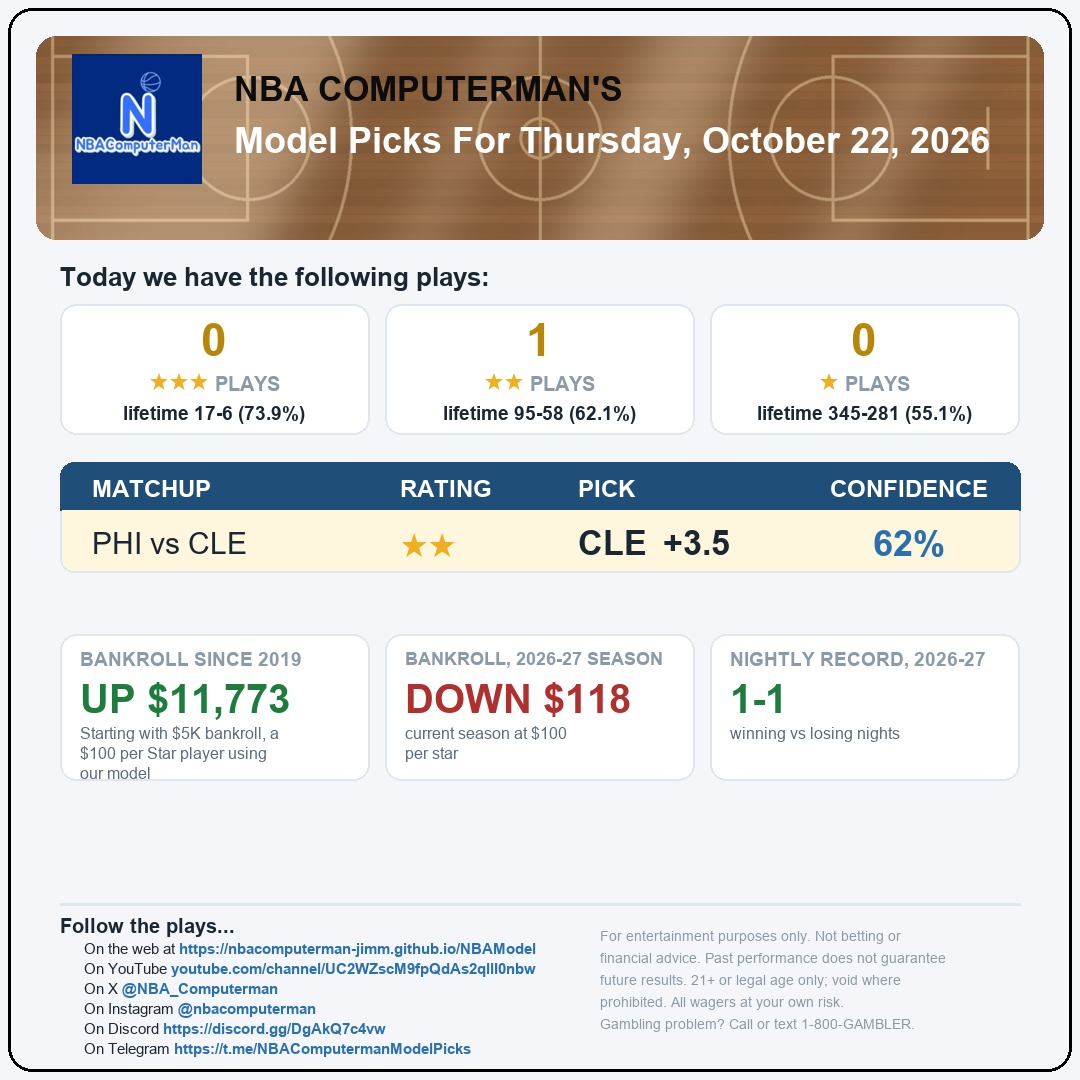
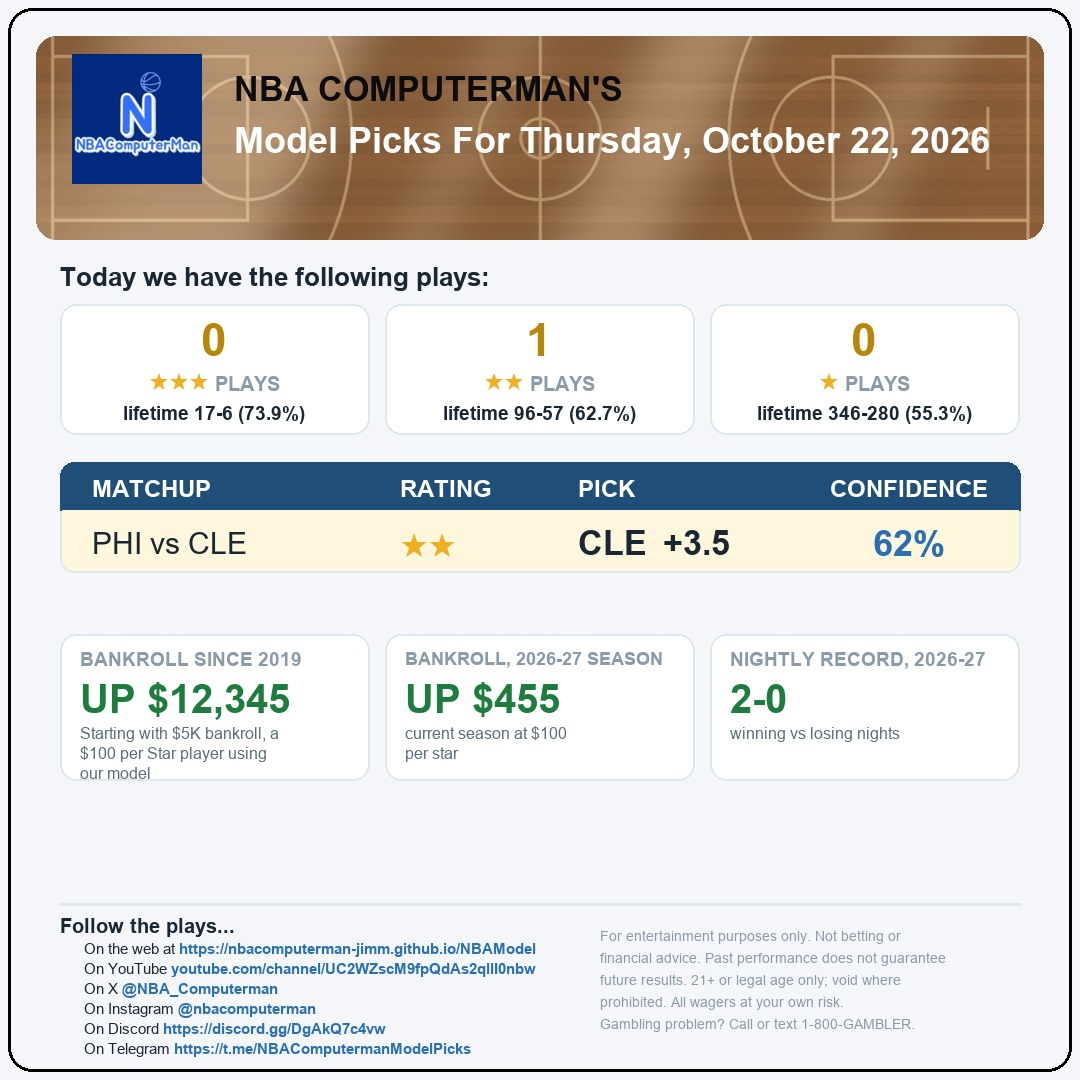
Update picks page 2026-10-22 09:34

Changed region(s): [[0.3667, 0.6111, 0.5806, 0.6722], [0.1833, 0.6111, 0.275, 0.6722], [0.6722, 0.6111, 0.7333, 0.6722]]

diff --git a/index.html b/index.html
@@ -4,13 +4,13 @@
 <meta property="og:type" content="website">
 <meta property="og:url" content="https://nbacomputerman-jimm.github.io/NBAModel/">
 <meta property="og:title" content="NBA Computerman's Model Picks">
-<meta property="og:description" content="Daily NBA picks with a live, auditable track record. Up $11,773 since 2019 on a $5K bankroll at $100 per star.">
+<meta property="og:description" content="Daily NBA picks with a live, auditable track record. Up $12,345 since 2019 on a $5K bankroll at $100 per star.">
 <meta property="og:image" content="https://nbacomputerman-jimm.github.io/NBAModel/card.jpg">
 <meta name="twitter:card" content="summary_large_image">
 <meta name="twitter:title" content="NBA Computerman's Model Picks">
-<meta name="twitter:description" content="Daily NBA picks with a live, auditable track record. Up $11,773 since 2019 on a $5K bankroll at $100 per star.">
+<meta name="twitter:description" content="Daily NBA picks with a live, auditable track record. Up $12,345 since 2019 on a $5K bankroll at $100 per star.">
 <meta name="twitter:image" content="https://nbacomputerman-jimm.github.io/NBAModel/card.jpg">
-<meta name="description" content="Daily NBA picks with a live, auditable track record. Up $11,773 since 2019 on a $5K bankroll at $100 per star.">
+<meta name="description" content="Daily NBA picks with a live, auditable track record. Up $12,345 since 2019 on a $5K bankroll at $100 per star.">
 <style>
  body { font-family: 'Segoe UI', Arial, sans-serif; background:#f4f6f9;
         color:#1a2733; margin:0; padding:32px; }
@@ -101,21 +101,21 @@
 <div class="social"><b>Follow the picks:</b> <a href="https://www.youtube.com/channel/UC2WZscM9fpQdAs2qllI0nbw" target="_blank" rel="noopener">YouTube</a><a href="https://t.me/NBAComputermanModelPicks" target="_blank" rel="noopener">Telegram</a><a href="https://discord.gg/DgAkQ7c4vw" target="_blank" rel="noopener">Discord</a><a href="https://x.com/NBA_Computerman" target="_blank" rel="noopener">X</a><a href="https://www.instagram.com/nbacomputerman/" target="_blank" rel="noopener">Instagram</a></div><div class="signup"><span class="cta"><b>Get the picks emailed to you daily</b> ==&gt;</span><form action="https://buttondown.com/api/emails/embed-subscribe/nbacomputerman" method="post" target="_blank"><input type="email" name="email" required placeholder="you@example.com"><button type="submit">Subscribe free</button></form></div><div class="intro">Today we have the following plays:</div>
 <div class="cards">
  <div class="card gold"><div class="num">0</div><div class="lbl">&#11088;&#11088;&#11088; plays</div><div class="rec strong">lifetime 17&ndash;6 (73.9%)</div></div>
- <div class="card gold"><div class="num">1</div><div class="lbl">&#11088;&#11088; plays</div><div class="rec strong">lifetime 95&ndash;58 (62.1%)</div></div>
- <div class="card gold"><div class="num">0</div><div class="lbl">&#11088; plays</div><div class="rec strong">lifetime 345&ndash;281 (55.1%)</div></div>
+ <div class="card gold"><div class="num">1</div><div class="lbl">&#11088;&#11088; plays</div><div class="rec strong">lifetime 96&ndash;57 (62.7%)</div></div>
+ <div class="card gold"><div class="num">0</div><div class="lbl">&#11088; plays</div><div class="rec strong">lifetime 346&ndash;280 (55.3%)</div></div>
 </div>
 <table class="grid"><tr><th>Matchup</th><th>Rating</th><th>Pick</th><th class="cc">Confidence</th><th>Pick Criteria</th></tr><tr class="two"><td class="mu">PHI vs CLE</td><td class="stars">&#11088;&#11088;</td><td class="pick">CLE <span class="spr">+3.5</span></td><td class="conf">62%</td><td class="basis">core system pair agrees, unopposed, rest advantage</td></tr></table>
 <div class="histlink"><a href="https://nbacomputerman-jimm.github.io/NBAModel/pick-history.xlsx">View Model's Pick History (Excel)</a></div>
 
 <div class="bank-head">
-<div class="card bank pos"><div class="lbl">Bankroll since 2019</div><div class="num">UP $11,773</div><div class="rec">Starting with $5K bankroll, a $100 per Star player using our model</div></div>
-<div class="card bank neg"><div class="lbl">Bankroll, 2026-27 season</div><div class="num">DOWN $118</div><div class="rec">current season at $100 per star</div></div><div class="card bank pos"><div class="lbl">Nightly record, 2026-27</div><div class="num">1-1</div><div class="rec">winning vs losing nights</div></div>
+<div class="card bank pos"><div class="lbl">Bankroll since 2019</div><div class="num">UP $12,345</div><div class="rec">Starting with $5K bankroll, a $100 per Star player using our model</div></div>
+<div class="card bank pos"><div class="lbl">Bankroll, 2026-27 season</div><div class="num">UP $455</div><div class="rec">current season at $100 per star</div></div><div class="card bank pos"><div class="lbl">Nightly record, 2026-27</div><div class="num">2-0</div><div class="rec">winning vs losing nights</div></div>
 </div>
 <div class="chartbox">
 <svg viewBox="0 0 800 172" width="100%" height="172" preserveAspectRatio="none">
- <line x1="10" y1="125.7" x2="790" y2="125.7"
+ <line x1="10" y1="126.1" x2="790" y2="126.1"
        stroke="#b9c4ce" stroke-dasharray="5,4" stroke-width="1"/>
- <polyline points="10.0,124.8 11.0,123.9 11.9,123.1 12.9,125.0 13.9,124.1 14.9,123.2 15.8,122.4 16.8,124.3 17.8,126.2 18.8,125.3 19.7,126.3 20.7,127.3 21.7,129.2 22.7,131.1 23.6,129.4 24.6,127.6 25.6,126.7 26.6,125.0 27.5,123.2 28.5,122.4 29.5,120.6 30.4,122.5 31.4,123.5 32.4,124.5 33.4,125.4 34.3,126.4 35.3,127.4 36.3,129.3 37.3,128.4 38.2,126.7 39.2,127.6 40.2,128.6 41.2,127.7 42.1,126.0 43.1,126.9 44.1,128.9 45.1,130.8 46.0,129.9 47.0,131.8 48.0,132.8 49.0,131.9 49.9,131.0 50.9,132.0 51.9,133.0 52.8,133.9 53.8,133.1 54.8,134.0 55.8,133.2 56.7,132.3 57.7,134.2 58.7,136.1 59.7,134.4 60.6,133.5 61.6,132.6 62.6,130.9 63.6,131.8 64.5,133.8 65.5,135.7 66.5,137.6 67.5,135.9 68.4,136.8 69.4,137.8 70.4,138.8 71.3,137.0 72.3,138.0 73.3,138.9 74.3,138.1 75.2,140.0 76.2,138.2 77.2,137.4 78.2,136.5 79.1,134.7 80.1,135.7 81.1,136.7 82.1,137.6 83.0,136.8 84.0,135.0 85.0,134.1 86.0,133.2 86.9,132.4 87.9,133.3 88.9,132.5 89.9,133.4 90.8,134.4 91.8,135.3 92.8,134.5 93.7,135.4 94.7,136.4 95.7,137.4 96.7,139.3 97.6,136.7 98.6,138.6 99.6,136.8 100.6,136.0 101.5,134.2 102.5,136.1 103.5,137.1 104.5,136.2 105.4,135.3 106.4,136.3 107.4,137.3 108.4,136.4 109.3,137.4 110.3,136.5 111.3,135.6 112.2,134.7 113.2,135.7 114.2,134.8 115.2,133.9 116.1,133.1 117.1,134.0 118.1,135.0 119.1,134.1 120.0,133.2 121.0,134.2 122.0,135.2 123.0,138.1 123.9,137.2 124.9,136.3 125.9,135.4 126.9,134.6 127.8,135.5 128.8,136.5 129.8,135.6 130.7,134.7 131.7,132.1 132.7,133.1 133.7,132.2 134.6,133.2 135.6,131.4 136.6,132.4 137.6,131.5 138.5,132.5 139.5,133.4 140.5,134.4 141.5,135.3 142.4,134.5 143.4,133.6 144.4,132.7 145.4,131.8 146.3,131.0 147.3,130.1 148.3,129.2 149.3,128.3 150.2,129.3 151.2,130.3 152.2,129.4 153.1,128.5 154.1,127.6 155.1,126.7 156.1,125.9 157.0,125.0 158.0,126.0 159.0,125.1 160.0,124.2 160.9,125.2 161.9,123.4 162.9,122.5 163.9,123.5 164.8,124.5 165.8,123.6 166.8,124.6 167.8,125.5 168.7,126.5 169.7,125.6 170.7,127.5 171.6,128.5 172.6,126.7 173.6,125.9 174.6,126.8 175.5,126.0 176.5,126.9 177.5,126.0 178.5,127.0 179.4,126.1 180.4,127.1 181.4,126.2 182.4,127.2 183.3,126.3 184.3,125.4 185.3,126.4 186.3,127.4 187.2,126.5 188.2,127.4 189.2,125.7 190.1,124.8 191.1,125.8 192.1,128.7 193.1,129.6 194.0,130.6 195.0,131.6 196.0,130.7 197.0,129.8 197.9,128.9 198.9,128.1 199.9,126.3 200.9,125.4 201.8,126.4 202.8,125.5 203.8,124.6 204.8,123.8 205.7,122.0 206.7,119.4 207.7,118.5 208.7,117.6 209.6,118.6 210.6,116.8 211.6,115.9 212.5,114.2 213.5,112.4 214.5,113.4 215.5,112.5 216.4,110.8 217.4,109.0 218.4,108.1 219.4,107.3 220.3,108.2 221.3,107.3 222.3,106.5 223.3,105.6 224.2,106.6 225.2,103.9 226.2,103.0 227.2,102.2 228.1,103.1 229.1,102.3 230.1,103.2 231.0,105.2 232.0,106.1 233.0,105.2 234.0,107.2 234.9,106.3 235.9,105.4 236.9,104.5 237.9,105.5 238.8,106.5 239.8,107.4 240.8,108.4 241.8,107.5 242.7,106.6 243.7,105.8 244.7,104.0 245.7,105.0 246.6,105.9 247.6,105.1 248.6,106.0 249.6,105.2 250.5,107.1 251.5,106.2 252.5,107.2 253.4,108.1 254.4,111.0 255.4,110.2 256.4,109.3 257.3,108.4 258.3,107.5 259.3,105.8 260.3,106.7 261.2,105.9 262.2,106.8 263.2,107.8 264.2,108.8 265.1,109.7 266.1,108.8 267.1,109.8 268.1,108.9 269.0,108.0 270.0,107.2 271.0,108.1 271.9,107.3 272.9,108.2 273.9,107.3 274.9,106.5 275.8,107.4 276.8,108.4 277.8,110.3 278.8,109.5 279.7,111.4 280.7,112.3 281.7,113.3 282.7,112.4 283.6,110.7 284.6,111.6 285.6,110.8 286.6,111.7 287.5,110.9 288.5,111.8 289.5,110.9 290.4,110.1 291.4,111.0 292.4,112.0 293.4,113.0 294.3,112.1 295.3,111.2 296.3,112.2 297.3,111.3 298.2,110.4 299.2,109.5 300.2,111.5 301.2,110.6 302.1,112.5 303.1,113.5 304.1,114.5 305.1,115.4 306.0,116.4 307.0,115.5 308.0,114.6 309.0,115.6 309.9,113.8 310.9,113.0 311.9,112.1 312.8,113.1 313.8,112.2 314.8,111.3 315.8,110.4 316.7,109.5 317.7,108.7 318.7,109.6 319.7,108.8 320.6,109.7 321.6,111.6 322.6,110.8 323.6,111.7 324.5,110.9 325.5,111.8 326.5,112.8 327.5,111.9 328.4,111.0 329.4,110.2 330.4,112.1 331.3,111.2 332.3,110.3 333.3,111.3 334.3,112.3 335.2,114.2 336.2,113.3 337.2,114.3 338.2,113.4 339.1,112.5 340.1,113.5 341.1,111.7 342.1,110.9 343.0,111.8 344.0,112.8 345.0,111.0 346.0,109.3 346.9,108.4 347.9,109.4 348.9,108.5 349.9,107.6 350.8,106.7 351.8,105.9 352.8,106.8 353.7,107.8 354.7,109.7 355.7,108.8 356.7,108.0 357.6,108.9 358.6,108.0 359.6,107.2 360.6,106.3 361.5,105.4 362.5,106.4 363.5,107.3 364.5,108.3 365.4,107.4 366.4,106.6 367.4,107.5 368.4,106.6 369.3,107.6 370.3,106.7 371.3,107.7 372.2,108.7 373.2,107.8 374.2,106.9 375.2,106.0 376.1,107.0 377.1,106.1 378.1,108.0 379.1,109.0 380.0,107.3 381.0,108.2 382.0,105.6 383.0,103.8 383.9,104.8 384.9,106.7 385.9,107.7 386.9,108.7 387.8,110.6 388.8,108.8 389.8,109.8 390.7,110.8 391.7,109.0 392.7,107.3 393.7,108.2 394.6,107.3 395.6,109.3 396.6,110.2 397.6,111.2 398.5,110.3 399.5,111.3 400.5,112.3 401.5,111.4 402.4,110.5 403.4,109.6 404.4,110.6 405.4,111.6 406.3,112.5 407.3,111.6 408.3,112.6 409.3,113.6 410.2,114.5 411.2,112.8 412.2,111.9 413.1,112.9 414.1,112.0 415.1,113.9 416.1,114.9 417.0,114.0 418.0,115.0 419.0,115.9 420.0,115.1 420.9,118.0 421.9,118.9 422.9,118.1 423.9,119.0 424.8,116.4 425.8,115.5 426.8,116.5 427.8,115.6 428.7,113.8 429.7,114.8 430.7,115.8 431.6,116.7 432.6,115.0 433.6,115.9 434.6,116.9 435.5,117.9 436.5,119.8 437.5,118.9 438.5,118.1 439.4,115.4 440.4,116.4 441.4,115.5 442.4,114.6 443.3,115.6 444.3,113.8 445.3,113.0 446.3,111.2 447.2,109.5 448.2,111.4 449.2,113.3 450.1,111.6 451.1,109.8 452.1,111.7 453.1,110.9 454.0,109.1 455.0,107.3 456.0,108.3 457.0,109.3 457.9,108.4 458.9,107.5 459.9,108.5 460.9,109.5 461.8,107.7 462.8,106.8 463.8,107.8 464.8,106.0 465.7,105.2 466.7,107.1 467.7,108.0 468.7,107.2 469.6,108.1 470.6,109.1 471.6,106.5 472.5,104.7 473.5,103.0 474.5,105.9 475.5,107.8 476.4,106.9 477.4,106.0 478.4,108.0 479.4,107.1 480.3,106.2 481.3,105.3 482.3,106.3 483.3,107.3 484.2,106.4 485.2,107.3 486.2,106.5 487.2,107.4 488.1,106.6 489.1,105.7 490.1,104.8 491.0,103.9 492.0,104.9 493.0,104.0 494.0,103.1 494.9,100.5 495.9,99.6 496.9,98.7 497.9,96.1 498.8,95.2 499.8,92.6 500.8,91.7 501.8,92.7 502.7,93.7 503.7,92.8 504.7,91.9 505.7,92.9 506.6,90.2 507.6,89.4 508.6,88.5 509.6,89.4 510.5,90.4 511.5,88.6 512.5,89.6 513.4,90.6 514.4,89.7 515.4,88.8 516.4,89.8 517.3,90.8 518.3,91.7 519.3,92.7 520.3,90.9 521.2,91.9 522.2,92.9 523.2,92.0 524.2,91.1 525.1,90.2 526.1,91.2 527.1,92.2 528.1,93.1 529.0,92.2 530.0,91.4 531.0,89.6 531.9,90.6 532.9,89.7 533.9,87.9 534.9,87.1 535.8,85.3 536.8,83.6 537.8,82.7 538.8,81.8 539.7,83.7 540.7,82.9 541.7,83.8 542.7,82.9 543.6,83.9 544.6,83.0 545.6,82.2 546.6,83.1 547.5,82.2 548.5,80.5 549.5,79.6 550.4,78.7 551.4,77.9 552.4,76.1 553.4,75.2 554.3,73.5 555.3,74.4 556.3,75.4 557.3,74.5 558.2,76.4 559.2,77.4 560.2,76.5 561.2,78.5 562.1,79.4 563.1,80.4 564.1,78.6 565.1,77.8 566.0,76.0 567.0,75.1 568.0,74.3 569.0,76.2 569.9,75.3 570.9,74.4 571.9,73.6 572.8,71.8 573.8,70.9 574.8,69.2 575.8,68.3 576.7,66.5 577.7,67.5 578.7,69.4 579.7,71.4 580.6,72.3 581.6,70.6 582.6,69.7 583.6,70.7 584.5,71.6 585.5,69.9 586.5,70.8 587.5,70.0 588.4,69.1 589.4,68.2 590.4,69.2 591.3,70.1 592.3,71.1 593.3,69.3 594.3,70.3 595.2,71.3 596.2,69.5 597.2,68.6 598.2,69.6 599.1,70.6 600.1,71.5 601.1,72.5 602.1,70.7 603.0,69.9 604.0,70.8 605.0,70.0 606.0,69.1 606.9,70.0 607.9,71.0 608.9,70.1 609.9,71.1 610.8,69.3 611.8,67.6 612.8,68.5 613.7,67.7 614.7,66.8 615.7,67.8 616.7,66.9 617.6,64.2 618.6,62.5 619.6,61.6 620.6,60.7 621.5,59.9 622.5,59.0 623.5,58.1 624.5,57.2 625.4,56.3 626.4,55.5 627.4,54.6 628.4,52.8 629.3,52.0 630.3,52.9 631.3,52.0 632.2,51.2 633.2,50.3 634.2,51.3 635.2,50.4 636.1,49.5 637.1,50.5 638.1,48.7 639.1,49.7 640.0,48.8 641.0,49.8 642.0,47.1 643.0,46.3 643.9,45.4 644.9,44.5 645.9,45.5 646.9,44.6 647.8,45.6 648.8,46.5 649.8,47.5 650.7,48.4 651.7,47.6 652.7,50.5 653.7,49.6 654.6,48.7 655.6,47.8 656.6,49.8 657.6,47.1 658.5,48.1 659.5,47.2 660.5,46.3 661.5,45.5 662.4,44.6 663.4,43.7 664.4,42.8 665.4,42.0 666.3,41.1 667.3,42.0 668.3,41.2 669.3,42.1 670.2,41.2 671.2,40.4 672.2,41.3 673.1,42.3 674.1,41.4 675.1,42.4 676.1,43.4 677.0,45.3 678.0,44.4 679.0,42.7 680.0,44.6 680.9,45.6 681.9,43.8 682.9,42.9 683.9,42.0 684.8,43.0 685.8,44.0 686.8,45.9 687.8,45.0 688.7,44.1 689.7,46.1 690.7,44.3 691.6,43.4 692.6,41.7 693.6,40.8 694.6,41.8 695.5,40.0 696.5,38.3 697.5,39.2 698.5,40.2 699.4,38.4 700.4,37.6 701.4,35.8 702.4,34.9 703.3,35.9 704.3,35.0 705.3,34.1 706.3,36.1 707.2,35.2 708.2,34.3 709.2,33.4 710.1,31.7 711.1,30.8 712.1,29.9 713.1,30.9 714.0,31.9 715.0,31.0 716.0,29.2 717.0,27.5 717.9,28.4 718.9,27.6 719.9,26.7 720.9,25.8 721.8,24.9 722.8,25.9 723.8,26.9 724.8,24.2 725.7,25.2 726.7,23.4 727.7,22.6 728.7,21.7 729.6,22.6 730.6,21.8 731.6,20.9 732.5,20.0 733.5,19.1 734.5,20.1 735.5,21.1 736.4,20.2 737.4,19.3 738.4,18.4 739.4,19.4 740.3,20.4 741.3,18.6 742.3,17.7 743.3,16.8 744.2,17.8 745.2,18.8 746.2,19.7 747.2,18.9 748.1,19.8 749.1,20.8 750.1,19.0 751.0,20.0 752.0,18.3 753.0,19.2 754.0,20.2 754.9,22.1 755.9,20.4 756.9,19.5 757.9,18.6 758.8,16.8 759.8,16.0 760.8,15.1 761.8,14.2 762.7,13.3 763.7,14.3 764.7,13.4 765.7,12.5 766.6,13.5 767.6,14.5 768.6,15.4 769.6,14.6 770.5,13.7 771.5,12.8 772.5,13.8 773.4,14.7 774.4,15.7 775.4,16.7 776.4,17.6 777.3,18.6 778.3,17.7 779.3,16.8 780.3,16.0 781.2,17.9 782.2,15.3 783.2,14.4 784.2,13.5 785.1,12.6 786.1,10.9 787.1,10.0 788.1,11.9 789.0,11.1 790.0,12.0" fill="none" stroke="#1f4e78" stroke-width="2"/>
+ <polyline points="10.0,125.2 11.0,124.4 11.9,123.5 12.9,125.4 13.9,124.5 14.9,123.7 15.8,122.8 16.8,124.7 17.8,126.6 18.8,125.7 19.7,126.7 20.7,127.6 21.7,129.5 22.7,131.4 23.6,129.7 24.6,127.9 25.6,127.1 26.6,125.4 27.5,123.7 28.5,122.8 29.5,121.1 30.4,123.0 31.4,123.9 32.4,124.9 33.4,125.8 34.3,126.8 35.3,127.7 36.3,129.6 37.3,128.7 38.2,127.0 39.2,127.9 40.2,128.9 41.2,128.0 42.1,126.3 43.1,127.3 44.1,129.1 45.1,131.0 46.0,130.2 47.0,132.1 48.0,133.0 49.0,132.1 49.9,131.3 50.9,132.2 51.9,133.2 52.8,134.1 53.8,133.2 54.8,134.2 55.8,133.3 56.7,132.5 57.7,134.4 58.7,136.2 59.7,134.5 60.6,133.7 61.6,132.8 62.6,131.1 63.6,132.1 64.5,133.9 65.5,135.8 66.5,137.7 67.5,136.0 68.4,136.9 69.4,137.9 70.4,138.8 71.3,137.1 72.3,138.0 73.3,139.0 74.3,138.1 75.2,140.0 76.2,138.3 77.2,137.4 78.2,136.6 79.1,134.9 80.1,135.8 81.1,136.8 82.1,137.7 83.0,136.8 84.0,135.1 85.0,134.3 86.0,133.4 86.9,132.6 87.9,133.5 88.9,132.6 89.9,133.6 90.8,134.5 91.8,135.5 92.8,134.6 93.7,135.6 94.7,136.5 95.7,137.4 96.7,139.3 97.6,136.8 98.6,138.6 99.6,136.9 100.6,136.1 101.5,134.4 102.5,136.2 103.5,137.2 104.5,136.3 105.4,135.5 106.4,136.4 107.4,137.4 108.4,136.5 109.3,137.4 110.3,136.6 111.3,135.7 112.2,134.9 113.2,135.8 114.2,135.0 115.2,134.1 116.1,133.2 117.1,134.2 118.1,135.1 119.1,134.3 120.0,133.4 121.0,134.4 122.0,135.3 123.0,138.1 123.9,137.3 124.9,136.4 125.9,135.6 126.9,134.7 127.8,135.6 128.8,136.6 129.8,135.7 130.7,134.9 131.7,132.3 132.7,133.2 133.7,132.4 134.6,133.3 135.6,131.6 136.6,132.6 137.6,131.7 138.5,132.6 139.5,133.6 140.5,134.5 141.5,135.5 142.4,134.6 143.4,133.8 144.4,132.9 145.4,132.1 146.3,131.2 147.3,130.3 148.3,129.5 149.3,128.6 150.2,129.6 151.2,130.5 152.2,129.7 153.1,128.8 154.1,127.9 155.1,127.1 156.1,126.2 157.0,125.4 158.0,126.3 159.0,125.5 160.0,124.6 160.9,125.6 161.9,123.8 162.9,123.0 163.9,123.9 164.8,124.9 165.8,124.0 166.8,125.0 167.8,125.9 168.7,126.8 169.7,126.0 170.7,127.9 171.6,128.8 172.6,127.1 173.6,126.2 174.6,127.2 175.5,126.3 176.5,127.3 177.5,126.4 178.5,127.4 179.4,126.5 180.4,127.4 181.4,126.6 182.4,127.5 183.3,126.7 184.3,125.8 185.3,126.8 186.3,127.7 187.2,126.8 188.2,127.8 189.2,126.1 190.1,125.2 191.1,126.2 192.1,129.0 193.1,129.9 194.0,130.9 195.0,131.8 196.0,130.9 197.0,130.1 197.9,129.2 198.9,128.4 199.9,126.7 200.9,125.8 201.8,126.8 202.8,125.9 203.8,125.0 204.8,124.2 205.7,122.5 206.7,119.9 207.7,119.1 208.7,118.2 209.6,119.1 210.6,117.4 211.6,116.6 212.5,114.9 213.5,113.2 214.5,114.1 215.5,113.2 216.4,111.5 217.4,109.8 218.4,109.0 219.4,108.1 220.3,109.1 221.3,108.2 222.3,107.4 223.3,106.5 224.2,107.4 225.2,104.9 226.2,104.0 227.2,103.2 228.1,104.1 229.1,103.2 230.1,104.2 231.0,106.1 232.0,107.0 233.0,106.2 234.0,108.0 234.9,107.2 235.9,106.3 236.9,105.5 237.9,106.4 238.8,107.4 239.8,108.3 240.8,109.2 241.8,108.4 242.7,107.5 243.7,106.7 244.7,105.0 245.7,105.9 246.6,106.8 247.6,106.0 248.6,106.9 249.6,106.1 250.5,107.9 251.5,107.1 252.5,108.0 253.4,109.0 254.4,111.8 255.4,110.9 256.4,110.1 257.3,109.2 258.3,108.4 259.3,106.7 260.3,107.6 261.2,106.8 262.2,107.7 263.2,108.6 264.2,109.6 265.1,110.5 266.1,109.7 267.1,110.6 268.1,109.7 269.0,108.9 270.0,108.0 271.0,109.0 271.9,108.1 272.9,109.1 273.9,108.2 274.9,107.4 275.8,108.3 276.8,109.2 277.8,111.1 278.8,110.3 279.7,112.1 280.7,113.1 281.7,114.0 282.7,113.2 283.6,111.5 284.6,112.4 285.6,111.5 286.6,112.5 287.5,111.6 288.5,112.6 289.5,111.7 290.4,110.9 291.4,111.8 292.4,112.7 293.4,113.7 294.3,112.8 295.3,112.0 296.3,112.9 297.3,112.1 298.2,111.2 299.2,110.3 300.2,112.2 301.2,111.4 302.1,113.2 303.1,114.2 304.1,115.1 305.1,116.1 306.0,117.0 307.0,116.2 308.0,115.3 309.0,116.2 309.9,114.5 310.9,113.7 311.9,112.8 312.8,113.8 313.8,112.9 314.8,112.1 315.8,111.2 316.7,110.3 317.7,109.5 318.7,110.4 319.7,109.6 320.6,110.5 321.6,112.4 322.6,111.5 323.6,112.5 324.5,111.6 325.5,112.6 326.5,113.5 327.5,112.6 328.4,111.8 329.4,110.9 330.4,112.8 331.3,112.0 332.3,111.1 333.3,112.1 334.3,113.0 335.2,114.9 336.2,114.0 337.2,115.0 338.2,114.1 339.1,113.2 340.1,114.2 341.1,112.5 342.1,111.6 343.0,112.6 344.0,113.5 345.0,111.8 346.0,110.1 346.9,109.2 347.9,110.2 348.9,109.3 349.9,108.5 350.8,107.6 351.8,106.8 352.8,107.7 353.7,108.6 354.7,110.5 355.7,109.7 356.7,108.8 357.6,109.7 358.6,108.9 359.6,108.0 360.6,107.2 361.5,106.3 362.5,107.3 363.5,108.2 364.5,109.1 365.4,108.3 366.4,107.4 367.4,108.4 368.4,107.5 369.3,108.5 370.3,107.6 371.3,108.5 372.2,109.5 373.2,108.6 374.2,107.8 375.2,106.9 376.1,107.9 377.1,107.0 378.1,108.9 379.1,109.8 380.0,108.1 381.0,109.1 382.0,106.5 383.0,104.8 383.9,105.7 384.9,107.6 385.9,108.5 386.9,109.5 387.8,111.4 388.8,109.7 389.8,110.6 390.7,111.5 391.7,109.8 392.7,108.1 393.7,109.1 394.6,108.2 395.6,110.1 396.6,111.0 397.6,112.0 398.5,111.1 399.5,112.1 400.5,113.0 401.5,112.1 402.4,111.3 403.4,110.4 404.4,111.4 405.4,112.3 406.3,113.2 407.3,112.4 408.3,113.3 409.3,114.3 410.2,115.2 411.2,113.5 412.2,112.6 413.1,113.6 414.1,112.7 415.1,114.6 416.1,115.6 417.0,114.7 418.0,115.6 419.0,116.6 420.0,115.7 420.9,118.5 421.9,119.5 422.9,118.6 423.9,119.6 424.8,117.0 425.8,116.2 426.8,117.1 427.8,116.2 428.7,114.5 429.7,115.5 430.7,116.4 431.6,117.4 432.6,115.6 433.6,116.6 434.6,117.5 435.5,118.5 436.5,120.3 437.5,119.5 438.5,118.6 439.4,116.1 440.4,117.0 441.4,116.2 442.4,115.3 443.3,116.2 444.3,114.5 445.3,113.7 446.3,112.0 447.2,110.3 448.2,112.1 449.2,114.0 450.1,112.3 451.1,110.6 452.1,112.5 453.1,111.6 454.0,109.9 455.0,108.2 456.0,109.1 457.0,110.1 457.9,109.2 458.9,108.4 459.9,109.3 460.9,110.3 461.8,108.5 462.8,107.7 463.8,108.6 464.8,106.9 465.7,106.1 466.7,107.9 467.7,108.9 468.7,108.0 469.6,109.0 470.6,109.9 471.6,107.4 472.5,105.6 473.5,103.9 474.5,106.8 475.5,108.6 476.4,107.8 477.4,106.9 478.4,108.8 479.4,107.9 480.3,107.1 481.3,106.2 482.3,107.2 483.3,108.1 484.2,107.3 485.2,108.2 486.2,107.4 487.2,108.3 488.1,107.4 489.1,106.6 490.1,105.7 491.0,104.9 492.0,105.8 493.0,105.0 494.0,104.1 494.9,101.5 495.9,100.7 496.9,99.8 497.9,97.3 498.8,96.4 499.8,93.8 500.8,93.0 501.8,93.9 502.7,94.9 503.7,94.0 504.7,93.2 505.7,94.1 506.6,91.5 507.6,90.7 508.6,89.8 509.6,90.8 510.5,91.7 511.5,90.0 512.5,90.9 513.4,91.9 514.4,91.0 515.4,90.2 516.4,91.1 517.3,92.1 518.3,93.0 519.3,93.9 520.3,92.2 521.2,93.2 522.2,94.1 523.2,93.2 524.2,92.4 525.1,91.5 526.1,92.5 527.1,93.4 528.1,94.4 529.0,93.5 530.0,92.6 531.0,90.9 531.9,91.9 532.9,91.0 533.9,89.3 534.9,88.5 535.8,86.8 536.8,85.0 537.8,84.2 538.8,83.3 539.7,85.2 540.7,84.4 541.7,85.3 542.7,84.4 543.6,85.4 544.6,84.5 545.6,83.7 546.6,84.6 547.5,83.8 548.5,82.1 549.5,81.2 550.4,80.3 551.4,79.5 552.4,77.8 553.4,76.9 554.3,75.2 555.3,76.2 556.3,77.1 557.3,76.2 558.2,78.1 559.2,79.1 560.2,78.2 561.2,80.1 562.1,81.0 563.1,82.0 564.1,80.3 565.1,79.4 566.0,77.7 567.0,76.8 568.0,76.0 569.0,77.9 569.9,77.0 570.9,76.2 571.9,75.3 572.8,73.6 573.8,72.7 574.8,71.0 575.8,70.2 576.7,68.5 577.7,69.4 578.7,71.3 579.7,73.2 580.6,74.1 581.6,72.4 582.6,71.5 583.6,72.5 584.5,73.4 585.5,71.7 586.5,72.6 587.5,71.8 588.4,70.9 589.4,70.1 590.4,71.0 591.3,72.0 592.3,72.9 593.3,71.2 594.3,72.1 595.2,73.1 596.2,71.4 597.2,70.5 598.2,71.5 599.1,72.4 600.1,73.3 601.1,74.3 602.1,72.6 603.0,71.7 604.0,72.6 605.0,71.8 606.0,70.9 606.9,71.9 607.9,72.8 608.9,72.0 609.9,72.9 610.8,71.2 611.8,69.5 612.8,70.4 613.7,69.6 614.7,68.7 615.7,69.7 616.7,68.8 617.6,66.2 618.6,64.5 619.6,63.7 620.6,62.8 621.5,62.0 622.5,61.1 623.5,60.3 624.5,59.4 625.4,58.5 626.4,57.7 627.4,56.8 628.4,55.1 629.3,54.3 630.3,55.2 631.3,54.4 632.2,53.5 633.2,52.6 634.2,53.6 635.2,52.7 636.1,51.9 637.1,52.8 638.1,51.1 639.1,52.1 640.0,51.2 641.0,52.1 642.0,49.6 643.0,48.7 643.9,47.9 644.9,47.0 645.9,47.9 646.9,47.1 647.8,48.0 648.8,49.0 649.8,49.9 650.7,50.9 651.7,50.0 652.7,52.8 653.7,52.0 654.6,51.1 655.6,50.3 656.6,52.1 657.6,49.6 658.5,50.5 659.5,49.7 660.5,48.8 661.5,47.9 662.4,47.1 663.4,46.2 664.4,45.4 665.4,44.5 666.3,43.7 667.3,44.6 668.3,43.8 669.3,44.7 670.2,43.8 671.2,43.0 672.2,43.9 673.1,44.9 674.1,44.0 675.1,45.0 676.1,45.9 677.0,47.8 678.0,46.9 679.0,45.2 680.0,47.1 680.9,48.0 681.9,46.3 682.9,45.5 683.9,44.6 684.8,45.6 685.8,46.5 686.8,48.4 687.8,47.5 688.7,46.7 689.7,48.5 690.7,46.8 691.6,46.0 692.6,44.3 693.6,43.4 694.6,44.4 695.5,42.6 696.5,40.9 697.5,41.9 698.5,42.8 699.4,41.1 700.4,40.3 701.4,38.5 702.4,37.7 703.3,38.6 704.3,37.8 705.3,36.9 706.3,38.8 707.2,37.9 708.2,37.1 709.2,36.2 710.1,34.5 711.1,33.7 712.1,32.8 713.1,33.8 714.0,34.7 715.0,33.8 716.0,32.1 717.0,30.4 717.9,31.4 718.9,30.5 719.9,29.7 720.9,28.8 721.8,27.9 722.8,28.9 723.8,29.8 724.8,27.3 725.7,28.2 726.7,26.5 727.7,25.6 728.7,24.8 729.6,25.7 730.6,24.9 731.6,24.0 732.5,23.2 733.5,22.3 734.5,23.2 735.5,24.2 736.4,23.3 737.4,22.5 738.4,21.6 739.4,22.6 740.3,23.5 741.3,21.8 742.3,20.9 743.3,20.1 744.2,21.0 745.2,22.0 746.2,22.9 747.2,22.1 748.1,23.0 749.1,23.9 750.1,22.2 751.0,23.2 752.0,21.5 753.0,22.4 754.0,23.3 754.9,25.2 755.9,23.5 756.9,22.6 757.9,21.8 758.8,20.1 759.8,19.2 760.8,18.4 761.8,17.5 762.7,16.7 763.7,17.6 764.7,16.8 765.7,15.9 766.6,16.8 767.6,17.8 768.6,18.7 769.6,17.9 770.5,17.0 771.5,16.2 772.5,17.1 773.4,18.0 774.4,19.0 775.4,19.9 776.4,20.9 777.3,21.8 778.3,20.9 779.3,20.1 780.3,19.2 781.2,21.1 782.2,18.5 783.2,17.7 784.2,16.8 785.1,16.0 786.1,14.3 787.1,13.4 788.1,11.7 789.0,10.9 790.0,10.0" fill="none" stroke="#1f4e78" stroke-width="2"/>
  <text x="10" y="166" text-anchor="start" font-size="12" fill="#8b9aa9">2019</text><text x="790" y="166" text-anchor="end" font-size="12" fill="#8b9aa9">2026</text>
 </svg>
 </div>
